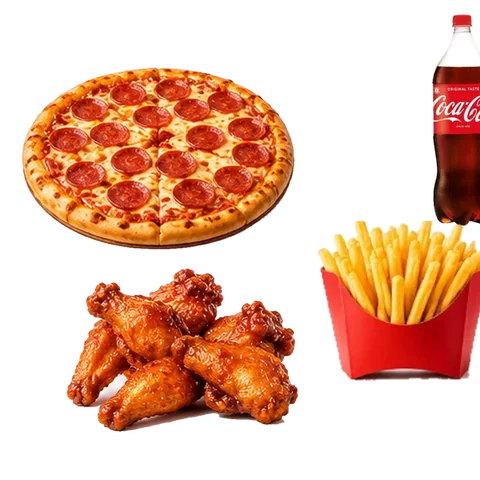
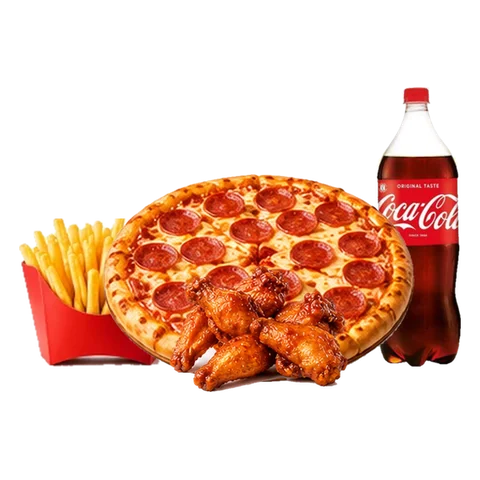
Uzbegim: kombolar bir xil tartibda va tarkibi bilan, milkshake olib tashlandi
Chapda fri, o'rtada asosiy taom, o'ngda ichimlik; rasm ostida tarkib (gramm/litr).
Bolajon kombodagi milkshake Fanta 0.5 L ga almashtirildi.

Claude-Session: https://claude.ai/code/session_0158RahCUjwmF3oqXHuWeBEs

diff --git a/uzbegim/index.html b/uzbegim/index.html
@@ -329,6 +329,11 @@ footer .emb{width:96px;height:96px}
 .soc2 a .gi{width:40px;height:40px;padding:9px;border-radius:12px;background:var(--glass2);border:1px solid var(--ln);box-sizing:border-box}
 .soc2 a:hover .gi{border-color:var(--gold)}
 a.crow{color:inherit}a.crow:hover i{border-color:var(--gold)}
+.parts{list-style:none;margin:8px 0 2px;padding:0;display:grid;gap:5px}
+.parts li{display:flex;align-items:center;gap:7px;font-size:12.5px;color:var(--mut);min-width:0}
+.parts li span{flex:1;min-width:0;overflow:hidden;text-overflow:ellipsis;white-space:nowrap}
+.parts li b{color:var(--ink);font-weight:800;font-variant-numeric:tabular-nums;white-space:nowrap}
+.parts .pi{width:16px;height:16px;stroke:var(--gold);flex:none}
 .closed{margin-top:16px;padding:14px 18px;border-radius:18px;background:rgba(31,182,193,.12);border:1px solid rgba(31,182,193,.35);font-weight:700}
 .soldout{display:inline-block;padding:10px 14px;border-radius:999px;background:rgba(0,0,0,.55);color:#fff;font-weight:800;font-size:13px;backdrop-filter:blur(6px)}
 .toast{position:fixed;left:50%;bottom:24px;transform:translate(-50%,140px);background:var(--ink);color:var(--bg);padding:12px 20px;border-radius:999px;font-weight:700;z-index:200;transition:.35s;box-shadow:var(--shadow);font-size:14px;max-width:calc(100% - 32px);text-align:center}
@@ -591,7 +596,7 @@ const CATS=[
  {id:"combo",ic:"combo",e:"🍱",uz:"Kombo",ru:"Комбо"},{id:"burger",ic:"burger",e:"🍔",uz:"Burger",ru:"Бургер"},{id:"lavash",ic:"lavash",e:"🌯",uz:"Lavash & sendvich",ru:"Лаваш & сэндвич"},{id:"hotdog",ic:"hotdog",e:"🌭",uz:"Hot-dog",ru:"Хот-дог"},{id:"pizza",ic:"pizza",e:"🍕",uz:"Pitsa",ru:"Пицца"},
  {id:"chicken",ic:"chicken",e:"🍗",uz:"Tovuq",ru:"Курица"},{id:"snack",ic:"fries",e:"🍟",uz:"Fri",ru:"Фри"},{id:"drink",ic:"drink",e:"🥤",uz:"Ichimlik",ru:"Напитки"},
 ];
-const P=[{"id":"c1","cat":"combo","img":true,"e":"🍱","n":{"uz":"Uzbegim kombo","ru":"Узбегим комбо"},"d":{"uz":"Chizburger, o'rta fri, Coca-Cola 0.5 L","ru":"Чизбургер, фри средний, Coca-Cola 0.5 л"},"v":[{"l":{"uz":"1 kishilik","ru":"На 1 персону"},"s":{"uz":"620 g","ru":"620 г"},"p":49000}],"badge":"hit","old":55000},{"id":"c2","cat":"combo","img":true,"e":"🌯","n":{"uz":"Lavash kombo","ru":"Лаваш комбо"},"d":{"uz":"Go'shtli lavash, o'rta fri, Coca-Cola 0.5 L","ru":"Лаваш с мясом, фри средний, Coca-Cola 0.5 л"},"v":[{"l":{"uz":"1 kishilik","ru":"На 1 персону"},"s":{"uz":"740 g","ru":"740 г"},"p":52000}],"badge":"","old":59000},{"id":"c3","cat":"combo","img":true,"e":"🎉","n":{"uz":"Do'stlar to'plami","ru":"Набор «Друзья»"},"d":{"uz":"4 lavash, 2 katta fri, Coca-Cola va Fanta 1.5 L","ru":"4 лаваша, 2 больших фри, Coca-Cola и Fanta 1.5 л"},"v":[{"l":{"uz":"4 kishilik","ru":"На 4 персоны"},"s":{"uz":"2.1 kg","ru":"2,1 кг"},"p":169000}],"badge":"hot","old":198000},{"id":"c4","cat":"combo","img":true,"e":"👨👩👧","n":{"uz":"Oilaviy kombo","ru":"Семейное комбо"},"d":{"uz":"Pepperoni 35 sm, 8 qanot, 2 fri, Coca-Cola 1.5 L","ru":"Пепперони 35 см, 8 крыльев, 2 фри, Coca-Cola 1.5 л"},"v":[{"l":{"uz":"4–5 kishilik","ru":"На 4–5 персон"},"s":{"uz":"2.4 kg","ru":"2,4 кг"},"p":179000}],"badge":"","old":212000},{"id":"c5","cat":"combo","img":true,"e":"🧒","n":{"uz":"Bolajon kombo","ru":"Детское комбо"},"d":{"uz":"6 naggets, kichik fri, qulupnayli milkshake","ru":"6 наггетсов, фри маленький, клубничный милкшейк"},"v":[{"l":{"uz":"1 bola","ru":"На 1 ребёнка"},"s":{"uz":"450 g","ru":"450 г"},"p":45000}],"badge":"new","old":54000},{"id":"b1","cat":"burger","img":true,"e":"🍔","n":{"uz":"Chizburger","ru":"Чизбургер"},"d":{"uz":"Mol go'shti kotleti, chedder, pomidor, piyoz","ru":"Говяжья котлета, чеддер, томат, лук"},"v":[{"l":{"uz":"Standart","ru":"Стандарт"},"s":{"uz":"200 g","ru":"200 г"},"p":29000},{"l":{"uz":"Dabl","ru":"Дабл"},"s":{"uz":"290 g","ru":"290 г"},"p":39000}],"badge":"hit","old":0},{"id":"b2","cat":"burger","img":true,"e":"🍔","n":{"uz":"Gamburger","ru":"Гамбургер"},"d":{"uz":"Mol go'shti kotleti, salat, pomidor, sous","ru":"Говяжья котлета, салат, томат, соус"},"v":[{"l":{"uz":"Standart","ru":"Стандарт"},"s":{"uz":"190 g","ru":"190 г"},"p":27000},{"l":{"uz":"Dabl","ru":"Дабл"},"s":{"uz":"270 g","ru":"270 г"},"p":36000}],"badge":"","old":0},{"id":"b3","cat":"burger","img":true,"e":"🍔","n":{"uz":"Dabl Uzbegim","ru":"Дабл Узбегим"},"d":{"uz":"2 kotlet, 2 qavat chedder, maxfiy sous","ru":"2 котлеты, двойной чеддер, секретный соус"},"v":[{"l":{"uz":"Standart","ru":"Стандарт"},"s":{"uz":"320 g","ru":"320 г"},"p":45000}],"badge":"hit","old":0},{"id":"b4","cat":"burger","img":true,"e":"🥓","n":{"uz":"Bekon burger","ru":"Бекон бургер"},"d":{"uz":"Kotlet, qarsildoq bekon (mol), chedder, BBQ","ru":"Котлета, хрустящий бекон (говяжий), чеддер, BBQ"},"v":[{"l":{"uz":"Standart","ru":"Стандарт"},"s":{"uz":"240 g","ru":"240 г"},"p":39000}],"badge":"new","old":0},{"id":"b5","cat":"burger","img":true,"e":"🍔","n":{"uz":"Big Uzbegim","ru":"Биг Узбегим"},"d":{"uz":"2 katta kotlet, chedder, bodring, maxsus sous","ru":"2 большие котлеты, чеддер, огурцы, фирменный соус"},"v":[{"l":{"uz":"Standart","ru":"Стандарт"},"s":{"uz":"360 g","ru":"360 г"},"p":49000}],"badge":"","old":0},{"id":"b6","cat":"burger","img":true,"e":"🍗","n":{"uz":"Chiken burger","ru":"Чикен бургер"},"d":{"uz":"Qarsildoq tovuq filesi, salat, mayonez","ru":"Хрустящее куриное филе, салат, майонез"},"v":[{"l":{"uz":"Standart","ru":"Стандарт"},"s":{"uz":"210 g","ru":"210 г"},"p":31000},{"l":{"uz":"Dabl","ru":"Дабл"},"s":{"uz":"300 g","ru":"300 г"},"p":41000}],"badge":"","old":0},{"id":"b7","cat":"burger","img":true,"e":"🌶","n":{"uz":"Achchiq chiken","ru":"Острый чикен"},"d":{"uz":"Achchiq panirovkada tovuq, halapenyo sous","ru":"Курица в острой панировке, соус халапеньо"},"v":[{"l":{"uz":"Standart","ru":"Стандарт"},"s":{"uz":"220 g","ru":"220 г"},"p":33000}],"badge":"hot","old":0},{"id":"b8","cat":"burger","img":true,"e":"🍗","n":{"uz":"Krispi chiken","ru":"Криспи чикен"},"d":{"uz":"Katta qarsildoq file, pishloq, salat","ru":"Большое хрустящее филе, сыр, салат"},"v":[{"l":{"uz":"Standart","ru":"Стандарт"},"s":{"uz":"230 g","ru":"230 г"},"p":34000}],"badge":"","old":0},{"id":"l1","cat":"lavash","img":true,"e":"🌯","n":{"uz":"Go'shtli lavash","ru":"Лаваш с мясом"},"d":{"uz":"Mol go'shti, chipslar, pomidor, sous","ru":"Говядина, чипсы, томаты, соус"},"v":[{"l":{"uz":"Mini","ru":"Мини"},"s":{"uz":"220 g","ru":"220 г"},"p":26000},{"l":{"uz":"Standart","ru":"Стандарт"},"s":{"uz":"320 g","ru":"320 г"},"p":33000},{"l":{"uz":"Katta","ru":"Большой"},"s":{"uz":"420 g","ru":"420 г"},"p":40000}],"badge":"hit","old":0},{"id":"l2","cat":"lavash","img":true,"e":"🌯","n":{"uz":"Tovuqli lavash","ru":"Лаваш с курицей"},"d":{"uz":"Tovuq, bodring, pomidor, pishloqli sous","ru":"Курица, огурцы, томаты, сырный соус"},"v":[{"l":{"uz":"Mini","ru":"Мини"},"s":{"uz":"220 g","ru":"220 г"},"p":23000},{"l":{"uz":"Standart","ru":"Стандарт"},"s":{"uz":"320 g","ru":"320 г"},"p":30000},{"l":{"uz":"Katta","ru":"Большой"},"s":{"uz":"420 g","ru":"420 г"},"p":36000}],"badge":"","old":0},{"id":"l3","cat":"lavash","img":true,"e":"🧀","n":{"uz":"Pishloqli lavash","ru":"Сырный лаваш"},"d":{"uz":"Go'sht, ikki baravar pishloq, fri ichida","ru":"Мясо, двойной сыр, фри внутри"},"v":[{"l":{"uz":"Standart","ru":"Стандарт"},"s":{"uz":"340 g","ru":"340 г"},"p":35000},{"l":{"uz":"Katta","ru":"Большой"},"s":{"uz":"440 g","ru":"440 г"},"p":42000}],"badge":"","old":0},{"id":"l4","cat":"lavash","img":true,"e":"🌶","n":{"uz":"Achchiq lavash","ru":"Острый лаваш"},"d":{"uz":"Go'sht, achchiq qalampir, maxsus sous","ru":"Мясо, острый перец, фирменный соус"},"v":[{"l":{"uz":"Standart","ru":"Стандарт"},"s":{"uz":"320 g","ru":"320 г"},"p":34000},{"l":{"uz":"Katta","ru":"Большой"},"s":{"uz":"420 g","ru":"420 г"},"p":41000}],"badge":"hot","old":0},{"id":"l5","cat":"lavash","img":true,"e":"🌯","n":{"uz":"Donar","ru":"Донар"},"d":{"uz":"Go'sht, sabzavotlar, sarimsoqli sous","ru":"Мясо, овощи, чесночный соус"},"v":[{"l":{"uz":"Standart","ru":"Стандарт"},"s":{"uz":"300 g","ru":"300 г"},"p":32000},{"l":{"uz":"Katta","ru":"Большой"},"s":{"uz":"400 g","ru":"400 г"},"p":39000}],"badge":"","old":0},{"id":"l6","cat":"lavash","img":true,"e":"🫓","n":{"uz":"Kesadilya","ru":"Кесадилья"},"d":{"uz":"Tovuq, chedder, qalampir, tortilya","ru":"Курица, чеддер, перец, тортилья"},"v":[{"l":{"uz":"Standart","ru":"Стандарт"},"s":{"uz":"260 g","ru":"260 г"},"p":33000}],"badge":"new","old":0},{"id":"l7","cat":"lavash","img":true,"e":"🥪","n":{"uz":"Klab sendvich","ru":"Клаб сэндвич"},"d":{"uz":"Tovuq, mol go'shti vetchinasi, pishloq, salat","ru":"Курица, говяжья ветчина, сыр, салат"},"v":[{"l":{"uz":"Standart","ru":"Стандарт"},"s":{"uz":"250 g","ru":"250 г"},"p":32000}],"badge":"","old":0},{"id":"l8","cat":"lavash","img":true,"e":"🥪","n":{"uz":"Tost sendvich","ru":"Тост сэндвич"},"d":{"uz":"Qovurilgan non, vetchina, pishloq","ru":"Поджаренный хлеб, ветчина, сыр"},"v":[{"l":{"uz":"Standart","ru":"Стандарт"},"s":{"uz":"210 g","ru":"210 г"},"p":26000}],"badge":"","old":0},{"id":"h1","cat":"hotdog","img":true,"e":"🌭","n":{"uz":"Klassik hot-dog","ru":"Классический хот-дог"},"d":{"uz":"Sosiska, ketchup, xantal","ru":"Сосиска, кетчуп, горчица"},"v":[{"l":{"uz":"Standart","ru":"Стандарт"},"s":{"uz":"160 g","ru":"160 г"},"p":15000},{"l":{"uz":"Dabl","ru":"Дабл"},"s":{"uz":"240 g","ru":"240 г"},"p":22000}],"badge":"","old":0},{"id":"h2","cat":"hotdog","img":true,"e":"🌭","n":{"uz":"Pishloqli hot-dog","ru":"Сырный хот-дог"},"d":{"uz":"Sosiska, pishloqli sous, qovurilgan piyoz","ru":"Сосиска, сырный соус, жареный лук"},"v":[{"l":{"uz":"Standart","ru":"Стандарт"},"s":{"uz":"190 g","ru":"190 г"},"p":19000}],"badge":"hit","old":0},{"id":"h3","cat":"hotdog","img":true,"e":"🌭","n":{"uz":"Hot-dog XXL","ru":"Хот-дог XXL"},"d":{"uz":"Uzun sosiska, ketchup, xantal, bodring","ru":"Длинная сосиска, кетчуп, горчица, огурцы"},"v":[{"l":{"uz":"Standart","ru":"Стандарт"},"s":{"uz":"250 g","ru":"250 г"},"p":24000}],"badge":"","old":0},{"id":"p1","cat":"pizza","img":true,"e":"🍕","n":{"uz":"Pepperoni","ru":"Пепперони"},"d":{"uz":"Pepperoni (mol), motsarella, tomat sousi","ru":"Пепперони (говяжья), моцарелла, томатный соус"},"v":[{"l":{"uz":"25 sm","ru":"25 см"},"s":{"uz":"520 g","ru":"520 г"},"p":55000},{"l":{"uz":"30 sm","ru":"30 см"},"s":{"uz":"720 g","ru":"720 г"},"p":72000},{"l":{"uz":"35 sm","ru":"35 см"},"s":{"uz":"950 g","ru":"950 г"},"p":89000}],"badge":"hit","old":0},{"id":"p2","cat":"pizza","img":true,"e":"🍕","n":{"uz":"Margarita","ru":"Маргарита"},"d":{"uz":"Motsarella, pomidor, rayhon","ru":"Моцарелла, томаты, базилик"},"v":[{"l":{"uz":"25 sm","ru":"25 см"},"s":{"uz":"480 g","ru":"480 г"},"p":49000},{"l":{"uz":"30 sm","ru":"30 см"},"s":{"uz":"650 g","ru":"650 г"},"p":65000},{"l":{"uz":"35 sm","ru":"35 см"},"s":{"uz":"880 g","ru":"880 г"},"p":79000}],"badge":"","old":0},{"id":"k1","cat":"chicken","img":true,"e":"🍗","n":{"uz":"Qanotlar BBQ","ru":"Крылья BBQ"},"d":{"uz":"Qarsildoq qanotlar, BBQ sousida","ru":"Хрустящие крылья в соусе BBQ"},"v":[{"l":{"uz":"4 dona","ru":"4 шт"},"s":{"uz":"180 g","ru":"180 г"},"p":26000},{"l":{"uz":"8 dona","ru":"8 шт"},"s":{"uz":"360 g","ru":"360 г"},"p":48000},{"l":{"uz":"12 dona","ru":"12 шт"},"s":{"uz":"540 g","ru":"540 г"},"p":68000}],"badge":"hot","old":0},{"id":"k2","cat":"chicken","img":true,"e":"🍗","n":{"uz":"Strips","ru":"Стрипсы"},"d":{"uz":"Qarsildoq tovuq filesi","ru":"Хрустящее куриное филе"},"v":[{"l":{"uz":"3 dona","ru":"3 шт"},"s":{"uz":"120 g","ru":"120 г"},"p":22000},{"l":{"uz":"6 dona","ru":"6 шт"},"s":{"uz":"240 g","ru":"240 г"},"p":41000},{"l":{"uz":"9 dona","ru":"9 шт"},"s":{"uz":"360 g","ru":"360 г"},"p":58000}],"badge":"","old":0},{"id":"k3","cat":"chicken","img":true,"e":"🔥","n":{"uz":"Achchiq qanotlar","ru":"Острые крылья"},"d":{"uz":"Achchiq glazurda qanotlar","ru":"Крылья в острой глазури"},"v":[{"l":{"uz":"6 dona","ru":"6 шт"},"s":{"uz":"270 g","ru":"270 г"},"p":38000},{"l":{"uz":"12 dona","ru":"12 шт"},"s":{"uz":"540 g","ru":"540 г"},"p":70000}],"badge":"hot","old":0},{"id":"n1","cat":"snack","img":true,"e":"🍟","n":{"uz":"Kartoshka fri","ru":"Картофель фри"},"d":{"uz":"Oltin rangli va qarsildoq","ru":"Золотистый и хрустящий"},"v":[{"l":{"uz":"Kichik","ru":"Маленький"},"s":{"uz":"90 g","ru":"90 г"},"p":13000},{"l":{"uz":"O'rta","ru":"Средний"},"s":{"uz":"120 g","ru":"120 г"},"p":16000},{"l":{"uz":"Katta","ru":"Большой"},"s":{"uz":"160 g","ru":"160 г"},"p":19000}],"badge":"hit","old":0},{"id":"n2","cat":"snack","img":true,"e":"🍟","n":{"uz":"Fri Max","ru":"Фри Макс"},"d":{"uz":"Katta qutida, 2 ta sous bilan","ru":"В большой коробке, с 2 соусами"},"v":[{"l":{"uz":"Standart","ru":"Стандарт"},"s":{"uz":"220 g","ru":"220 г"},"p":24000}],"badge":"","old":0},{"id":"n3","cat":"snack","img":true,"e":"🍗","n":{"uz":"Naggets","ru":"Наггетсы"},"d":{"uz":"Tovuq naggetslari, sous bilan","ru":"Куриные наггетсы, с соусом"},"v":[{"l":{"uz":"6 dona","ru":"6 шт"},"s":{"uz":"110 g","ru":"110 г"},"p":19000},{"l":{"uz":"9 dona","ru":"9 шт"},"s":{"uz":"165 g","ru":"165 г"},"p":26000},{"l":{"uz":"12 dona","ru":"12 шт"},"s":{"uz":"220 g","ru":"220 г"},"p":33000}],"badge":"","old":0},{"id":"n4","cat":"snack","img":true,"e":"🧅","n":{"uz":"Piyoz halqalari","ru":"Луковые кольца"},"d":{"uz":"Qarsildoq, sous bilan","ru":"Хрустящие, с соусом"},"v":[{"l":{"uz":"8 dona","ru":"8 шт"},"s":{"uz":"120 g","ru":"120 г"},"p":18000},{"l":{"uz":"12 dona","ru":"12 шт"},"s":{"uz":"180 g","ru":"180 г"},"p":25000}],"badge":"","old":0},{"id":"d1","cat":"drink","img":true,"e":"🥤","n":{"uz":"Coca-Cola","ru":"Coca-Cola"},"d":{"uz":"Gazli ichimlik","ru":"Газированный напиток"},"v":[{"l":{"uz":"0.5 L","ru":"0.5 л"},"s":null,"p":10000},{"l":{"uz":"1 L","ru":"1 л"},"s":null,"p":14000},{"l":{"uz":"1.5 L","ru":"1.5 л"},"s":null,"p":17000}],"badge":"hit","old":0},{"id":"d2","cat":"drink","img":true,"e":"🥤","n":{"uz":"Fanta","ru":"Fanta"},"d":{"uz":"Apelsin ta'mli","ru":"Со вкусом апельсина"},"v":[{"l":{"uz":"0.5 L","ru":"0.5 л"},"s":null,"p":10000},{"l":{"uz":"1 L","ru":"1 л"},"s":null,"p":14000},{"l":{"uz":"1.5 L","ru":"1.5 л"},"s":null,"p":17000}],"badge":"","old":0},{"id":"d3","cat":"drink","img":true,"e":"🥤","n":{"uz":"Sprite","ru":"Sprite"},"d":{"uz":"Limon va laym ta'mli","ru":"Со вкусом лимона и лайма"},"v":[{"l":{"uz":"0.5 L","ru":"0.5 л"},"s":null,"p":10000},{"l":{"uz":"1 L","ru":"1 л"},"s":null,"p":14000},{"l":{"uz":"1.5 L","ru":"1.5 л"},"s":null,"p":17000}],"badge":"","old":0},{"id":"d4","cat":"drink","img":true,"e":"🥤","n":{"uz":"Pepsi","ru":"Pepsi"},"d":{"uz":"Gazli ichimlik","ru":"Газированный напиток"},"v":[{"l":{"uz":"0.5 L","ru":"0.5 л"},"s":null,"p":9000},{"l":{"uz":"1 L","ru":"1 л"},"s":null,"p":13000},{"l":{"uz":"1.5 L","ru":"1.5 л"},"s":null,"p":16000}],"badge":"","old":0},{"id":"d5","cat":"drink","img":true,"e":"🥤","n":{"uz":"7UP","ru":"7UP"},"d":{"uz":"Limon-laym","ru":"Лимон-лайм"},"v":[{"l":{"uz":"0.5 L","ru":"0.5 л"},"s":null,"p":9000},{"l":{"uz":"1 L","ru":"1 л"},"s":null,"p":13000},{"l":{"uz":"1.5 L","ru":"1.5 л"},"s":null,"p":16000}],"badge":"","old":0},{"id":"d7","cat":"drink","img":true,"e":"💧","n":{"uz":"Hydrolife","ru":"Hydrolife"},"d":{"uz":"Gazsiz suv","ru":"Вода без газа"},"v":[{"l":{"uz":"0.5 L","ru":"0.5 л"},"s":null,"p":4000},{"l":{"uz":"1 L","ru":"1 л"},"s":null,"p":6000},{"l":{"uz":"1.5 L","ru":"1.5 л"},"s":null,"p":7000}],"badge":"","old":0},{"id":"d8","cat":"drink","img":true,"e":"💧","n":{"uz":"BonAqua","ru":"BonAqua"},"d":{"uz":"Gazsiz suv","ru":"Вода без газа"},"v":[{"l":{"uz":"0.5 L","ru":"0.5 л"},"s":null,"p":5000},{"l":{"uz":"1 L","ru":"1 л"},"s":null,"p":7000},{"l":{"uz":"1.5 L","ru":"1.5 л"},"s":null,"p":8000}],"badge":"","old":0},{"id":"d9","cat":"drink","img":true,"e":"🧃","n":{"uz":"Rich apelsin","ru":"Rich апельсин"},"d":{"uz":"100% sharbat","ru":"100% сок"},"v":[{"l":{"uz":"1 L","ru":"1 л"},"s":null,"p":22000}],"badge":"","old":0},{"id":"d10","cat":"drink","img":true,"e":"🧃","n":{"uz":"Sandora apelsin","ru":"Sandora апельсин"},"d":{"uz":"Sharbat","ru":"Сок"},"v":[{"l":{"uz":"0.95 L","ru":"0.95 л"},"s":null,"p":19000}],"badge":"","old":0},{"id":"d11","cat":"drink","img":true,"e":"⚡","n":{"uz":"18+ Plus Energy","ru":"18+ Plus Energy"},"d":{"uz":"Energetik ichimlik","ru":"Энергетический напиток"},"v":[{"l":{"uz":"0.33 L","ru":"0.33 л"},"s":null,"p":9000}],"badge":"","old":0},{"id":"d12","cat":"drink","img":true,"e":"⚡","n":{"uz":"Flash Up Energy","ru":"Flash Up Energy"},"d":{"uz":"Energetik ichimlik","ru":"Энергетический напиток"},"v":[{"l":{"uz":"0.25 L","ru":"0.25 л"},"s":null,"p":10000},{"l":{"uz":"0.45 L","ru":"0.45 л"},"s":null,"p":14000}],"badge":"hit","old":0},{"id":"d17","cat":"drink","img":true,"e":"⚡","n":{"uz":"Flash Up Rezavorli","ru":"Flash Up Ягодный микс"},"d":{"uz":"Rezavor mevalar ta'mli energetik","ru":"Энергетик со вкусом ягод"},"v":[{"l":{"uz":"0.45 L","ru":"0.45 л"},"s":null,"p":14000}],"badge":"new","old":0},{"id":"d18","cat":"drink","img":true,"e":"⚡","n":{"uz":"Adrenaline Rush","ru":"Adrenaline Rush"},"d":{"uz":"Energetik ichimlik","ru":"Энергетический напиток"},"v":[{"l":{"uz":"0.25 L","ru":"0.25 л"},"s":null,"p":14000},{"l":{"uz":"0.45 L","ru":"0.45 л"},"s":null,"p":19000}],"badge":"","old":0}].map((p,i)=>({...p,rate:(4.5+((i*7)%5)/10).toFixed(1),votes:80+(i*37)%400}));
+const P=[{"id":"c1","cat":"combo","img":true,"e":"🍱","n":{"uz":"Uzbegim kombo","ru":"Узбегим комбо"},"d":{"uz":"Chizburger, o'rta fri, Coca-Cola 0.5 L","ru":"Чизбургер, фри средний, Coca-Cola 0.5 л"},"v":[{"l":{"uz":"1 kishilik","ru":"На 1 персону"},"s":{"uz":"620 g","ru":"620 г"},"p":49000}],"badge":"hit","old":55000,"parts":[{"ic":"fries","n":{"uz":"Kartoshka fri","ru":"Картофель фри"},"s":{"uz":"120 g","ru":"120 г"}},{"ic":"burger","n":{"uz":"Chizburger","ru":"Чизбургер"},"s":{"uz":"200 g","ru":"200 г"}},{"ic":"drink","n":{"uz":"Coca-Cola","ru":"Coca-Cola"},"s":{"uz":"0.5 L","ru":"0.5 л"}}]},{"id":"c2","cat":"combo","img":true,"e":"🌯","n":{"uz":"Lavash kombo","ru":"Лаваш комбо"},"d":{"uz":"Go'shtli lavash, o'rta fri, Coca-Cola 0.5 L","ru":"Лаваш с мясом, фри средний, Coca-Cola 0.5 л"},"v":[{"l":{"uz":"1 kishilik","ru":"На 1 персону"},"s":{"uz":"740 g","ru":"740 г"},"p":52000}],"badge":"","old":59000,"parts":[{"ic":"fries","n":{"uz":"Kartoshka fri","ru":"Картофель фри"},"s":{"uz":"120 g","ru":"120 г"}},{"ic":"lavash","n":{"uz":"Go'shtli lavash","ru":"Лаваш с мясом"},"s":{"uz":"320 g","ru":"320 г"}},{"ic":"drink","n":{"uz":"Coca-Cola","ru":"Coca-Cola"},"s":{"uz":"0.5 L","ru":"0.5 л"}}]},{"id":"c3","cat":"combo","img":true,"e":"🎉","n":{"uz":"Do'stlar to'plami","ru":"Набор «Друзья»"},"d":{"uz":"4 lavash, 2 katta fri, Coca-Cola va Fanta 1.5 L","ru":"4 лаваша, 2 больших фри, Coca-Cola и Fanta 1.5 л"},"v":[{"l":{"uz":"4 kishilik","ru":"На 4 персоны"},"s":{"uz":"2.1 kg","ru":"2,1 кг"},"p":169000}],"badge":"hot","old":198000,"parts":[{"ic":"fries","n":{"uz":"2 × Kartoshka fri","ru":"2 × Картофель фри"},"s":{"uz":"160 g","ru":"160 г"}},{"ic":"lavash","n":{"uz":"4 × Lavash (go'shtli va tovuqli)","ru":"4 × Лаваш (мясо и курица)"},"s":{"uz":"320 g","ru":"320 г"}},{"ic":"drink","n":{"uz":"Coca-Cola","ru":"Coca-Cola"},"s":{"uz":"1.5 L","ru":"1.5 л"}},{"ic":"drink","n":{"uz":"Fanta","ru":"Fanta"},"s":{"uz":"1.5 L","ru":"1.5 л"}}]},{"id":"c4","cat":"combo","img":true,"e":"👨👩👧","n":{"uz":"Oilaviy kombo","ru":"Семейное комбо"},"d":{"uz":"Pepperoni 35 sm, 8 qanot, 2 fri, Coca-Cola 1.5 L","ru":"Пепперони 35 см, 8 крыльев, 2 фри, Coca-Cola 1.5 л"},"v":[{"l":{"uz":"4–5 kishilik","ru":"На 4–5 персон"},"s":{"uz":"2.4 kg","ru":"2,4 кг"},"p":179000}],"badge":"","old":212000,"parts":[{"ic":"fries","n":{"uz":"2 × Kartoshka fri","ru":"2 × Картофель фри"},"s":{"uz":"160 g","ru":"160 г"}},{"ic":"pizza","n":{"uz":"Pepperoni 35 sm","ru":"Пепперони 35 см"},"s":{"uz":"950 g","ru":"950 г"}},{"ic":"chicken","n":{"uz":"Qanotlar BBQ, 8 dona","ru":"Крылья BBQ, 8 шт"},"s":{"uz":"360 g","ru":"360 г"}},{"ic":"drink","n":{"uz":"Coca-Cola","ru":"Coca-Cola"},"s":{"uz":"1.5 L","ru":"1.5 л"}}]},{"id":"c5","cat":"combo","img":true,"e":"🧒","n":{"uz":"Bolajon kombo","ru":"Детское комбо"},"d":{"uz":"6 naggets, kichik fri, Fanta 0.5 L","ru":"6 наггетсов, фри маленький, Fanta 0.5 л"},"v":[{"l":{"uz":"1 bola","ru":"На 1 ребёнка"},"s":{"uz":"450 g","ru":"450 г"},"p":45000}],"badge":"new","old":54000,"parts":[{"ic":"fries","n":{"uz":"Kartoshka fri","ru":"Картофель фри"},"s":{"uz":"90 g","ru":"90 г"}},{"ic":"chicken","n":{"uz":"Naggets, 6 dona","ru":"Наггетсы, 6 шт"},"s":{"uz":"110 g","ru":"110 г"}},{"ic":"drink","n":{"uz":"Fanta","ru":"Fanta"},"s":{"uz":"0.5 L","ru":"0.5 л"}}]},{"id":"b1","cat":"burger","img":true,"e":"🍔","n":{"uz":"Chizburger","ru":"Чизбургер"},"d":{"uz":"Mol go'shti kotleti, chedder, pomidor, piyoz","ru":"Говяжья котлета, чеддер, томат, лук"},"v":[{"l":{"uz":"Standart","ru":"Стандарт"},"s":{"uz":"200 g","ru":"200 г"},"p":29000},{"l":{"uz":"Dabl","ru":"Дабл"},"s":{"uz":"290 g","ru":"290 г"},"p":39000}],"badge":"hit","old":0},{"id":"b2","cat":"burger","img":true,"e":"🍔","n":{"uz":"Gamburger","ru":"Гамбургер"},"d":{"uz":"Mol go'shti kotleti, salat, pomidor, sous","ru":"Говяжья котлета, салат, томат, соус"},"v":[{"l":{"uz":"Standart","ru":"Стандарт"},"s":{"uz":"190 g","ru":"190 г"},"p":27000},{"l":{"uz":"Dabl","ru":"Дабл"},"s":{"uz":"270 g","ru":"270 г"},"p":36000}],"badge":"","old":0},{"id":"b3","cat":"burger","img":true,"e":"🍔","n":{"uz":"Dabl Uzbegim","ru":"Дабл Узбегим"},"d":{"uz":"2 kotlet, 2 qavat chedder, maxfiy sous","ru":"2 котлеты, двойной чеддер, секретный соус"},"v":[{"l":{"uz":"Standart","ru":"Стандарт"},"s":{"uz":"320 g","ru":"320 г"},"p":45000}],"badge":"hit","old":0},{"id":"b4","cat":"burger","img":true,"e":"🥓","n":{"uz":"Bekon burger","ru":"Бекон бургер"},"d":{"uz":"Kotlet, qarsildoq bekon (mol), chedder, BBQ","ru":"Котлета, хрустящий бекон (говяжий), чеддер, BBQ"},"v":[{"l":{"uz":"Standart","ru":"Стандарт"},"s":{"uz":"240 g","ru":"240 г"},"p":39000}],"badge":"new","old":0},{"id":"b5","cat":"burger","img":true,"e":"🍔","n":{"uz":"Big Uzbegim","ru":"Биг Узбегим"},"d":{"uz":"2 katta kotlet, chedder, bodring, maxsus sous","ru":"2 большие котлеты, чеддер, огурцы, фирменный соус"},"v":[{"l":{"uz":"Standart","ru":"Стандарт"},"s":{"uz":"360 g","ru":"360 г"},"p":49000}],"badge":"","old":0},{"id":"b6","cat":"burger","img":true,"e":"🍗","n":{"uz":"Chiken burger","ru":"Чикен бургер"},"d":{"uz":"Qarsildoq tovuq filesi, salat, mayonez","ru":"Хрустящее куриное филе, салат, майонез"},"v":[{"l":{"uz":"Standart","ru":"Стандарт"},"s":{"uz":"210 g","ru":"210 г"},"p":31000},{"l":{"uz":"Dabl","ru":"Дабл"},"s":{"uz":"300 g","ru":"300 г"},"p":41000}],"badge":"","old":0},{"id":"b7","cat":"burger","img":true,"e":"🌶","n":{"uz":"Achchiq chiken","ru":"Острый чикен"},"d":{"uz":"Achchiq panirovkada tovuq, halapenyo sous","ru":"Курица в острой панировке, соус халапеньо"},"v":[{"l":{"uz":"Standart","ru":"Стандарт"},"s":{"uz":"220 g","ru":"220 г"},"p":33000}],"badge":"hot","old":0},{"id":"b8","cat":"burger","img":true,"e":"🍗","n":{"uz":"Krispi chiken","ru":"Криспи чикен"},"d":{"uz":"Katta qarsildoq file, pishloq, salat","ru":"Большое хрустящее филе, сыр, салат"},"v":[{"l":{"uz":"Standart","ru":"Стандарт"},"s":{"uz":"230 g","ru":"230 г"},"p":34000}],"badge":"","old":0},{"id":"l1","cat":"lavash","img":true,"e":"🌯","n":{"uz":"Go'shtli lavash","ru":"Лаваш с мясом"},"d":{"uz":"Mol go'shti, chipslar, pomidor, sous","ru":"Говядина, чипсы, томаты, соус"},"v":[{"l":{"uz":"Mini","ru":"Мини"},"s":{"uz":"220 g","ru":"220 г"},"p":26000},{"l":{"uz":"Standart","ru":"Стандарт"},"s":{"uz":"320 g","ru":"320 г"},"p":33000},{"l":{"uz":"Katta","ru":"Большой"},"s":{"uz":"420 g","ru":"420 г"},"p":40000}],"badge":"hit","old":0},{"id":"l2","cat":"lavash","img":true,"e":"🌯","n":{"uz":"Tovuqli lavash","ru":"Лаваш с курицей"},"d":{"uz":"Tovuq, bodring, pomidor, pishloqli sous","ru":"Курица, огурцы, томаты, сырный соус"},"v":[{"l":{"uz":"Mini","ru":"Мини"},"s":{"uz":"220 g","ru":"220 г"},"p":23000},{"l":{"uz":"Standart","ru":"Стандарт"},"s":{"uz":"320 g","ru":"320 г"},"p":30000},{"l":{"uz":"Katta","ru":"Большой"},"s":{"uz":"420 g","ru":"420 г"},"p":36000}],"badge":"","old":0},{"id":"l3","cat":"lavash","img":true,"e":"🧀","n":{"uz":"Pishloqli lavash","ru":"Сырный лаваш"},"d":{"uz":"Go'sht, ikki baravar pishloq, fri ichida","ru":"Мясо, двойной сыр, фри внутри"},"v":[{"l":{"uz":"Standart","ru":"Стандарт"},"s":{"uz":"340 g","ru":"340 г"},"p":35000},{"l":{"uz":"Katta","ru":"Большой"},"s":{"uz":"440 g","ru":"440 г"},"p":42000}],"badge":"","old":0},{"id":"l4","cat":"lavash","img":true,"e":"🌶","n":{"uz":"Achchiq lavash","ru":"Острый лаваш"},"d":{"uz":"Go'sht, achchiq qalampir, maxsus sous","ru":"Мясо, острый перец, фирменный соус"},"v":[{"l":{"uz":"Standart","ru":"Стандарт"},"s":{"uz":"320 g","ru":"320 г"},"p":34000},{"l":{"uz":"Katta","ru":"Большой"},"s":{"uz":"420 g","ru":"420 г"},"p":41000}],"badge":"hot","old":0},{"id":"l5","cat":"lavash","img":true,"e":"🌯","n":{"uz":"Donar","ru":"Донар"},"d":{"uz":"Go'sht, sabzavotlar, sarimsoqli sous","ru":"Мясо, овощи, чесночный соус"},"v":[{"l":{"uz":"Standart","ru":"Стандарт"},"s":{"uz":"300 g","ru":"300 г"},"p":32000},{"l":{"uz":"Katta","ru":"Большой"},"s":{"uz":"400 g","ru":"400 г"},"p":39000}],"badge":"","old":0},{"id":"l6","cat":"lavash","img":true,"e":"🫓","n":{"uz":"Kesadilya","ru":"Кесадилья"},"d":{"uz":"Tovuq, chedder, qalampir, tortilya","ru":"Курица, чеддер, перец, тортилья"},"v":[{"l":{"uz":"Standart","ru":"Стандарт"},"s":{"uz":"260 g","ru":"260 г"},"p":33000}],"badge":"new","old":0},{"id":"l7","cat":"lavash","img":true,"e":"🥪","n":{"uz":"Klab sendvich","ru":"Клаб сэндвич"},"d":{"uz":"Tovuq, mol go'shti vetchinasi, pishloq, salat","ru":"Курица, говяжья ветчина, сыр, салат"},"v":[{"l":{"uz":"Standart","ru":"Стандарт"},"s":{"uz":"250 g","ru":"250 г"},"p":32000}],"badge":"","old":0},{"id":"l8","cat":"lavash","img":true,"e":"🥪","n":{"uz":"Tost sendvich","ru":"Тост сэндвич"},"d":{"uz":"Qovurilgan non, vetchina, pishloq","ru":"Поджаренный хлеб, ветчина, сыр"},"v":[{"l":{"uz":"Standart","ru":"Стандарт"},"s":{"uz":"210 g","ru":"210 г"},"p":26000}],"badge":"","old":0},{"id":"h1","cat":"hotdog","img":true,"e":"🌭","n":{"uz":"Klassik hot-dog","ru":"Классический хот-дог"},"d":{"uz":"Sosiska, ketchup, xantal","ru":"Сосиска, кетчуп, горчица"},"v":[{"l":{"uz":"Standart","ru":"Стандарт"},"s":{"uz":"160 g","ru":"160 г"},"p":15000},{"l":{"uz":"Dabl","ru":"Дабл"},"s":{"uz":"240 g","ru":"240 г"},"p":22000}],"badge":"","old":0},{"id":"h2","cat":"hotdog","img":true,"e":"🌭","n":{"uz":"Pishloqli hot-dog","ru":"Сырный хот-дог"},"d":{"uz":"Sosiska, pishloqli sous, qovurilgan piyoz","ru":"Сосиска, сырный соус, жареный лук"},"v":[{"l":{"uz":"Standart","ru":"Стандарт"},"s":{"uz":"190 g","ru":"190 г"},"p":19000}],"badge":"hit","old":0},{"id":"h3","cat":"hotdog","img":true,"e":"🌭","n":{"uz":"Hot-dog XXL","ru":"Хот-дог XXL"},"d":{"uz":"Uzun sosiska, ketchup, xantal, bodring","ru":"Длинная сосиска, кетчуп, горчица, огурцы"},"v":[{"l":{"uz":"Standart","ru":"Стандарт"},"s":{"uz":"250 g","ru":"250 г"},"p":24000}],"badge":"","old":0},{"id":"p1","cat":"pizza","img":true,"e":"🍕","n":{"uz":"Pepperoni","ru":"Пепперони"},"d":{"uz":"Pepperoni (mol), motsarella, tomat sousi","ru":"Пепперони (говяжья), моцарелла, томатный соус"},"v":[{"l":{"uz":"25 sm","ru":"25 см"},"s":{"uz":"520 g","ru":"520 г"},"p":55000},{"l":{"uz":"30 sm","ru":"30 см"},"s":{"uz":"720 g","ru":"720 г"},"p":72000},{"l":{"uz":"35 sm","ru":"35 см"},"s":{"uz":"950 g","ru":"950 г"},"p":89000}],"badge":"hit","old":0},{"id":"p2","cat":"pizza","img":true,"e":"🍕","n":{"uz":"Margarita","ru":"Маргарита"},"d":{"uz":"Motsarella, pomidor, rayhon","ru":"Моцарелла, томаты, базилик"},"v":[{"l":{"uz":"25 sm","ru":"25 см"},"s":{"uz":"480 g","ru":"480 г"},"p":49000},{"l":{"uz":"30 sm","ru":"30 см"},"s":{"uz":"650 g","ru":"650 г"},"p":65000},{"l":{"uz":"35 sm","ru":"35 см"},"s":{"uz":"880 g","ru":"880 г"},"p":79000}],"badge":"","old":0},{"id":"k1","cat":"chicken","img":true,"e":"🍗","n":{"uz":"Qanotlar BBQ","ru":"Крылья BBQ"},"d":{"uz":"Qarsildoq qanotlar, BBQ sousida","ru":"Хрустящие крылья в соусе BBQ"},"v":[{"l":{"uz":"4 dona","ru":"4 шт"},"s":{"uz":"180 g","ru":"180 г"},"p":26000},{"l":{"uz":"8 dona","ru":"8 шт"},"s":{"uz":"360 g","ru":"360 г"},"p":48000},{"l":{"uz":"12 dona","ru":"12 шт"},"s":{"uz":"540 g","ru":"540 г"},"p":68000}],"badge":"hot","old":0},{"id":"k2","cat":"chicken","img":true,"e":"🍗","n":{"uz":"Strips","ru":"Стрипсы"},"d":{"uz":"Qarsildoq tovuq filesi","ru":"Хрустящее куриное филе"},"v":[{"l":{"uz":"3 dona","ru":"3 шт"},"s":{"uz":"120 g","ru":"120 г"},"p":22000},{"l":{"uz":"6 dona","ru":"6 шт"},"s":{"uz":"240 g","ru":"240 г"},"p":41000},{"l":{"uz":"9 dona","ru":"9 шт"},"s":{"uz":"360 g","ru":"360 г"},"p":58000}],"badge":"","old":0},{"id":"k3","cat":"chicken","img":true,"e":"🔥","n":{"uz":"Achchiq qanotlar","ru":"Острые крылья"},"d":{"uz":"Achchiq glazurda qanotlar","ru":"Крылья в острой глазури"},"v":[{"l":{"uz":"6 dona","ru":"6 шт"},"s":{"uz":"270 g","ru":"270 г"},"p":38000},{"l":{"uz":"12 dona","ru":"12 шт"},"s":{"uz":"540 g","ru":"540 г"},"p":70000}],"badge":"hot","old":0},{"id":"n1","cat":"snack","img":true,"e":"🍟","n":{"uz":"Kartoshka fri","ru":"Картофель фри"},"d":{"uz":"Oltin rangli va qarsildoq","ru":"Золотистый и хрустящий"},"v":[{"l":{"uz":"Kichik","ru":"Маленький"},"s":{"uz":"90 g","ru":"90 г"},"p":13000},{"l":{"uz":"O'rta","ru":"Средний"},"s":{"uz":"120 g","ru":"120 г"},"p":16000},{"l":{"uz":"Katta","ru":"Большой"},"s":{"uz":"160 g","ru":"160 г"},"p":19000}],"badge":"hit","old":0},{"id":"n2","cat":"snack","img":true,"e":"🍟","n":{"uz":"Fri Max","ru":"Фри Макс"},"d":{"uz":"Katta qutida, 2 ta sous bilan","ru":"В большой коробке, с 2 соусами"},"v":[{"l":{"uz":"Standart","ru":"Стандарт"},"s":{"uz":"220 g","ru":"220 г"},"p":24000}],"badge":"","old":0},{"id":"n3","cat":"snack","img":true,"e":"🍗","n":{"uz":"Naggets","ru":"Наггетсы"},"d":{"uz":"Tovuq naggetslari, sous bilan","ru":"Куриные наггетсы, с соусом"},"v":[{"l":{"uz":"6 dona","ru":"6 шт"},"s":{"uz":"110 g","ru":"110 г"},"p":19000},{"l":{"uz":"9 dona","ru":"9 шт"},"s":{"uz":"165 g","ru":"165 г"},"p":26000},{"l":{"uz":"12 dona","ru":"12 шт"},"s":{"uz":"220 g","ru":"220 г"},"p":33000}],"badge":"","old":0},{"id":"n4","cat":"snack","img":true,"e":"🧅","n":{"uz":"Piyoz halqalari","ru":"Луковые кольца"},"d":{"uz":"Qarsildoq, sous bilan","ru":"Хрустящие, с соусом"},"v":[{"l":{"uz":"8 dona","ru":"8 шт"},"s":{"uz":"120 g","ru":"120 г"},"p":18000},{"l":{"uz":"12 dona","ru":"12 шт"},"s":{"uz":"180 g","ru":"180 г"},"p":25000}],"badge":"","old":0},{"id":"d1","cat":"drink","img":true,"e":"🥤","n":{"uz":"Coca-Cola","ru":"Coca-Cola"},"d":{"uz":"Gazli ichimlik","ru":"Газированный напиток"},"v":[{"l":{"uz":"0.5 L","ru":"0.5 л"},"s":null,"p":10000},{"l":{"uz":"1 L","ru":"1 л"},"s":null,"p":14000},{"l":{"uz":"1.5 L","ru":"1.5 л"},"s":null,"p":17000}],"badge":"hit","old":0},{"id":"d2","cat":"drink","img":true,"e":"🥤","n":{"uz":"Fanta","ru":"Fanta"},"d":{"uz":"Apelsin ta'mli","ru":"Со вкусом апельсина"},"v":[{"l":{"uz":"0.5 L","ru":"0.5 л"},"s":null,"p":10000},{"l":{"uz":"1 L","ru":"1 л"},"s":null,"p":14000},{"l":{"uz":"1.5 L","ru":"1.5 л"},"s":null,"p":17000}],"badge":"","old":0},{"id":"d3","cat":"drink","img":true,"e":"🥤","n":{"uz":"Sprite","ru":"Sprite"},"d":{"uz":"Limon va laym ta'mli","ru":"Со вкусом лимона и лайма"},"v":[{"l":{"uz":"0.5 L","ru":"0.5 л"},"s":null,"p":10000},{"l":{"uz":"1 L","ru":"1 л"},"s":null,"p":14000},{"l":{"uz":"1.5 L","ru":"1.5 л"},"s":null,"p":17000}],"badge":"","old":0},{"id":"d4","cat":"drink","img":true,"e":"🥤","n":{"uz":"Pepsi","ru":"Pepsi"},"d":{"uz":"Gazli ichimlik","ru":"Газированный напиток"},"v":[{"l":{"uz":"0.5 L","ru":"0.5 л"},"s":null,"p":9000},{"l":{"uz":"1 L","ru":"1 л"},"s":null,"p":13000},{"l":{"uz":"1.5 L","ru":"1.5 л"},"s":null,"p":16000}],"badge":"","old":0},{"id":"d5","cat":"drink","img":true,"e":"🥤","n":{"uz":"7UP","ru":"7UP"},"d":{"uz":"Limon-laym","ru":"Лимон-лайм"},"v":[{"l":{"uz":"0.5 L","ru":"0.5 л"},"s":null,"p":9000},{"l":{"uz":"1 L","ru":"1 л"},"s":null,"p":13000},{"l":{"uz":"1.5 L","ru":"1.5 л"},"s":null,"p":16000}],"badge":"","old":0},{"id":"d7","cat":"drink","img":true,"e":"💧","n":{"uz":"Hydrolife","ru":"Hydrolife"},"d":{"uz":"Gazsiz suv","ru":"Вода без газа"},"v":[{"l":{"uz":"0.5 L","ru":"0.5 л"},"s":null,"p":4000},{"l":{"uz":"1 L","ru":"1 л"},"s":null,"p":6000},{"l":{"uz":"1.5 L","ru":"1.5 л"},"s":null,"p":7000}],"badge":"","old":0},{"id":"d8","cat":"drink","img":true,"e":"💧","n":{"uz":"BonAqua","ru":"BonAqua"},"d":{"uz":"Gazsiz suv","ru":"Вода без газа"},"v":[{"l":{"uz":"0.5 L","ru":"0.5 л"},"s":null,"p":5000},{"l":{"uz":"1 L","ru":"1 л"},"s":null,"p":7000},{"l":{"uz":"1.5 L","ru":"1.5 л"},"s":null,"p":8000}],"badge":"","old":0},{"id":"d9","cat":"drink","img":true,"e":"🧃","n":{"uz":"Rich apelsin","ru":"Rich апельсин"},"d":{"uz":"100% sharbat","ru":"100% сок"},"v":[{"l":{"uz":"1 L","ru":"1 л"},"s":null,"p":22000}],"badge":"","old":0},{"id":"d10","cat":"drink","img":true,"e":"🧃","n":{"uz":"Sandora apelsin","ru":"Sandora апельсин"},"d":{"uz":"Sharbat","ru":"Сок"},"v":[{"l":{"uz":"0.95 L","ru":"0.95 л"},"s":null,"p":19000}],"badge":"","old":0},{"id":"d11","cat":"drink","img":true,"e":"⚡","n":{"uz":"18+ Plus Energy","ru":"18+ Plus Energy"},"d":{"uz":"Energetik ichimlik","ru":"Энергетический напиток"},"v":[{"l":{"uz":"0.33 L","ru":"0.33 л"},"s":null,"p":9000}],"badge":"","old":0},{"id":"d12","cat":"drink","img":true,"e":"⚡","n":{"uz":"Flash Up Energy","ru":"Flash Up Energy"},"d":{"uz":"Energetik ichimlik","ru":"Энергетический напиток"},"v":[{"l":{"uz":"0.25 L","ru":"0.25 л"},"s":null,"p":10000},{"l":{"uz":"0.45 L","ru":"0.45 л"},"s":null,"p":14000}],"badge":"hit","old":0},{"id":"d17","cat":"drink","img":true,"e":"⚡","n":{"uz":"Flash Up Rezavorli","ru":"Flash Up Ягодный микс"},"d":{"uz":"Rezavor mevalar ta'mli energetik","ru":"Энергетик со вкусом ягод"},"v":[{"l":{"uz":"0.45 L","ru":"0.45 л"},"s":null,"p":14000}],"badge":"new","old":0},{"id":"d18","cat":"drink","img":true,"e":"⚡","n":{"uz":"Adrenaline Rush","ru":"Adrenaline Rush"},"d":{"uz":"Energetik ichimlik","ru":"Энергетический напиток"},"v":[{"l":{"uz":"0.25 L","ru":"0.25 л"},"s":null,"p":14000},{"l":{"uz":"0.45 L","ru":"0.45 л"},"s":null,"p":19000}],"badge":"","old":0}].map((p,i)=>({...p,rate:(4.5+((i*7)%5)/10).toFixed(1),votes:80+(i*37)%400}));
 const byId=Object.fromEntries(P.map(p=>[p.id,p]));
 const SL=[{e:"🍔",bg:"radial-gradient(700px 400px at 80% 70%,rgba(255,122,0,.55),transparent 60%),linear-gradient(120deg,#1a120c,#2a1609)"},{e:"🍔",bg:"radial-gradient(700px 400px at 80% 70%,rgba(255,60,30,.5),transparent 60%),linear-gradient(120deg,#1a0f0c,#2b100a)"},{e:"🌯",bg:"radial-gradient(700px 400px at 80% 70%,rgba(255,170,40,.5),transparent 60%),linear-gradient(120deg,#16120a,#2a1d08)"}];
 const BRANCHES=[
@@ -652,12 +657,13 @@ function ctlHTML(p){const k=VK(p.id,sel[p.id]||0),q=cart[k]||0;if(window.STOP&&S
 const varsHTML=p=>p.v.length>1?`<div class="vs">${p.v.map((v,i)=>`<button class="${i===(sel[p.id]||0)?"on":""}" data-var="${p.id}" data-vi="${i}">${v.l[L]}</button>`).join("")}</div>`:"";
 const priceHTML=p=>{const v=vOf(p);return `<div class="price">${money(v.p)} <small>${t("sum")}</small>${p.old?`<s>${money(p.old)}</s>`:""}</div>`};
 const metaHTML=p=>{const v=vOf(p);const sz=v.s?v.s[L]:(p.v.length===1?v.l[L]:"");return `<div class="meta">${sz?`<span>${sz}</span>`:""}</div>`};
+const partsHTML=p=>p.parts?`<ul class="parts">${p.parts.map(x=>`<li>${ICO(x.ic,"gi pi")}<span>${x.n[L]}</span><b>${x.s[L]}</b></li>`).join("")}</ul>`:"";
 function cardHTML(p){
   const badge=p.badge?`<span class="badge ${p.badge}">${p.badge==="hit"?"Hit":p.badge==="new"?(L==="uz"?"Yangi":"Новинка"):(L==="uz"?"🌶 Achchiq":"🌶 Острое")}</span>`:"";
   return `<article class="card glass" data-id="${p.id}">
     <button class="fav" data-fav="${p.id}">${favs.includes(p.id)?"❤":"♡"}</button>
     <div style="position:relative"><div class="pic ${p.img?"ph":""}" data-open="${p.id}">${PIC(p)}${badge}</div>${ctlHTML(p)}</div>
-    <div class="body">${priceHTML(p)}<h3>${p.n[L]}</h3>${metaHTML(p)}${varsHTML(p)}</div></article>`;
+    <div class="body">${priceHTML(p)}<h3>${p.n[L]}</h3>${partsHTML(p)}${metaHTML(p)}${varsHTML(p)}</div></article>`;
 }
 function updatePart(id){
   const p=byId[id];
@@ -766,7 +772,7 @@ function openProduct(id){
   const draw=()=>{const v=p.v[vi];openModal(`<div class="mpic ${p.img?"ph":""}">${p.img?IMG(p):`<span style="filter:drop-shadow(0 20px 26px rgba(0,0,0,.45))">${p.e}</span>`}</div>
     <div class="mbody"><div style="display:flex;justify-content:space-between;gap:10px;align-items:start"><h3>${p.n[L]}</h3><span class="price" style="font-size:22px">${fmt(v.p)}</span></div>
     <div class="rt" style="margin-top:6px">${v.s?v.s[L]:""}</div>
-    <p style="color:var(--mut);margin:10px 0 16px">${p.d[L]}</p>
+    ${p.parts?`<div style="margin:12px 0 16px">${partsHTML(p)}</div>`:`<p style="color:var(--mut);margin:10px 0 16px">${p.d[L]}</p>`}
     ${p.v.length>1?`<div class="vs big">${p.v.map((x,i)=>`<button class="${i===vi?"on":""}" data-mv="${i}">${x.l[L]}${x.s?`<small>${x.s[L]}</small>`:""}<em>${money(x.p)}</em></button>`).join("")}</div>`:""}
     <button class="btn wide" data-add="${VK(p.id,vi)}" data-close style="margin-top:16px">${t("add")} • ${fmt(v.p)}</button></div>`);
     document.querySelectorAll("[data-mv]").forEach(b=>b.onclick=()=>{vi=+b.dataset.mv;sel[id]=vi;updatePart(id);draw()});};
